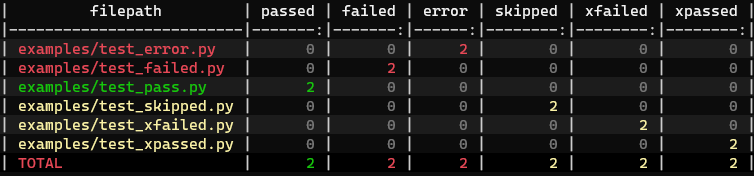
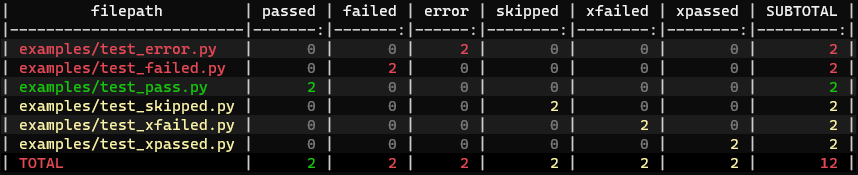
Update README

diff --git a/README.rst b/README.rst
@@ -70,15 +70,15 @@ Not rendering results of zero value (``--md-report-zeros emmpty`` option):
 
 ::
 
-    |         filepath         | passed | failed | error | skipped | xfailed | xpassed |
-    |--------------------------|-------:|-------:|------:|--------:|--------:|--------:|
-    | examples/test_error.py   |        |        |     2 |         |         |         |
-    | examples/test_failed.py  |        |      2 |       |         |         |         |
-    | examples/test_pass.py    |      2 |        |       |         |         |         |
-    | examples/test_skipped.py |        |        |       |       2 |         |         |
-    | examples/test_xfailed.py |        |        |       |         |       2 |         |
-    | examples/test_xpassed.py |        |        |       |         |         |       2 |
-    | TOTAL                    |      2 |      2 |     2 |       2 |       2 |       2 |
+    |         filepath         | passed | failed | error | skipped | xfailed | xpassed | SUBTOTAL |
+    |--------------------------|-------:|-------:|------:|--------:|--------:|--------:|---------:|
+    | examples/test_error.py   |        |        |     2 |         |         |         |        2 |
+    | examples/test_failed.py  |        |      2 |       |         |         |         |        2 |
+    | examples/test_pass.py    |      2 |        |       |         |         |         |        2 |
+    | examples/test_skipped.py |        |        |       |       2 |         |         |        2 |
+    | examples/test_xfailed.py |        |        |       |         |       2 |         |        2 |
+    | examples/test_xpassed.py |        |        |       |         |         |       2 |        2 |
+    | TOTAL                    |      2 |      2 |     2 |       2 |       2 |       2 |       12 |
 
 
 Options
